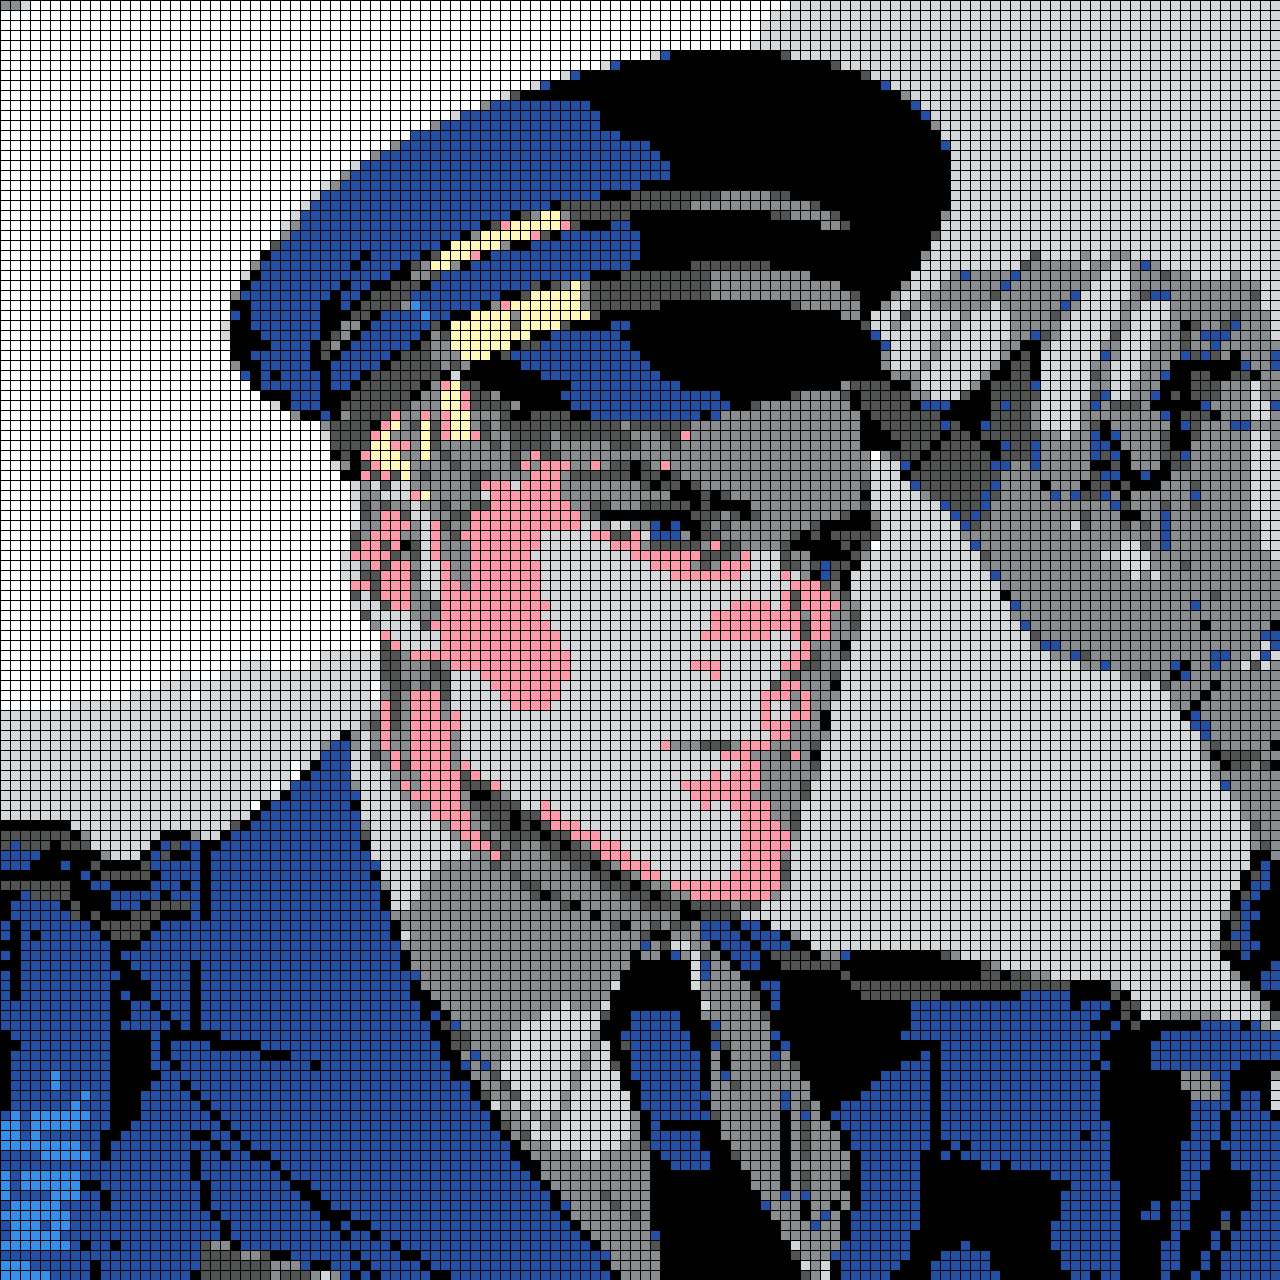
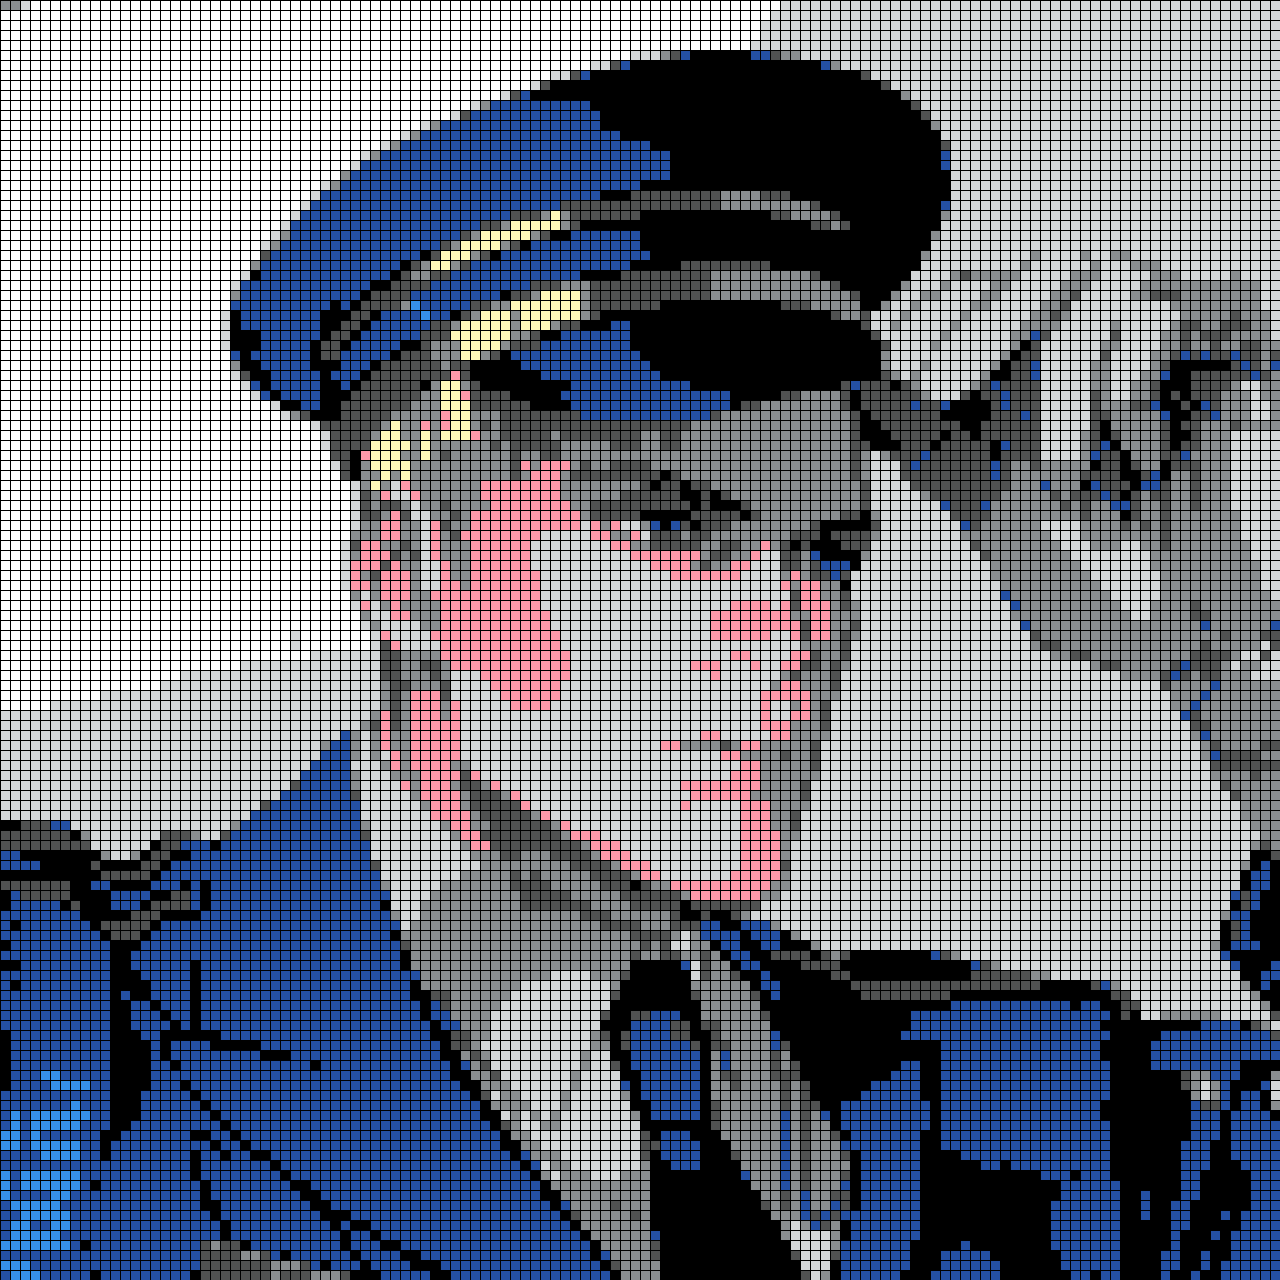
added Gaussian Blur

diff --git a/app.py b/app.py
@@ -305,7 +305,8 @@ def place(
         imageio.mimsave(f"./{direct[0]}/pixel_{name[-1]}", frames, duration=int(1000/fps))
     else:
         original = cv2.imread(image_path)
-        pixel = pixelate(original, width_size, color_n)
+        blur = cv2.GaussianBlur(original,(5,5),0)
+        pixel = pixelate(blur, width_size, color_n)
         output = pixel.copy()
 
         palette, palette_visual = dict_palette(bgr_colors, color_names)
